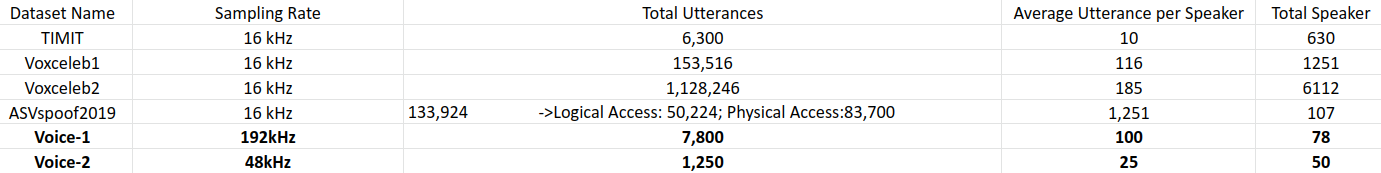
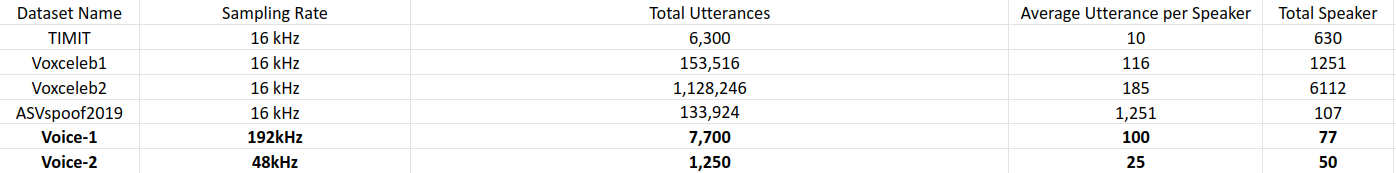
update

diff --git a/_layouts/default.html b/_layouts/default.html
@@ -50,24 +50,25 @@
 				</div> -->
 
 
-				<!-- <h1> Team </h1>
+				<h1> Team </h1>
 					<div class ="boxed" style="margin-top=3em;">
 						<p>
-							SurfingAttack was discovered by the following team of academic researchers:
+							SuperVoice was discovered by the following team of academic researchers:
 						</p>
 						<ul>
 					<li>
-						<strong><a href="http://cse.msu.edu/~qyan/">Qiben Yan</a></strong> at <a href="http://seit.egr.msu.edu/">SEIT Lab</a>, <a href="https://www.cse.msu.edu/">Michigan State University</a></li>
-							<li><a href=""><strong>Kehai Liu</strong></a> at <a href="http://english.cas.cn/">Chinese Academy of Sciences</a> </li>
-				      <li><a href="https://engineering.unl.edu/mme/faculty/qin-zhou/"><strong>Qin Zhou</strong></a> at <a href="https://www.unl.edu/">University of Nebraska-Lincoin</a></li>
+						<strf="http://www.cse.msu.edu/~lxiao/"><strong>Li Xiao</strong></a> at <a href="https://www.cse.msu.edu/">Michigan State University</a></li>ong>
 							<li><a href="https://hanqingguo.github.io"><strong>Hanqing Guo</strong></a> at <a href="http://seit.egr.msu.edu/">SEIT Lab</a>, <a href="https://www.cse.msu.edu/">Michigan State University</a></li>
-							<li><a href="https://engineering.wustl.edu/Profiles/Pages/Ning-Zhang.aspx"><strong>Ning Zhang</strong></a> at <a href="https://cse.wustl.edu/Pages/default.aspx">Washington University in St. Louis</a></li>
-
+							<li><a href="http://cse.msu.edu/~qyan/">Qiben Yan</a></strong> at <a href="http://seit.egr.msu.edu/">SEIT Lab</a>, <a href="https://www.cse.msu.edu/">Michigan State University</a></li>
+							<li><a href="https://nick-ivanov.com/"><strong>Nick Ivanov</strong></a> at <a href="http://seit.egr.msu.edu/">SEIT Lab</a>, <a href="https://www.cse.msu.edu/">Michigan State University</a></li>
+							<li><strong>Ying Zhu</strong> at <a href="https://www.cse.msu.edu/">Michigan State University</a></li>
+							<li><a href="http://www.cse.msu.edu/~lxiao/"><strong>Li Xiao</strong></a> at <a href="https://www.cse.msu.edu/">Michigan State University</a></li>
+							<li><a href="https://comartsci.msu.edu/our-people/eric-j-hunter"><strong>Eric J. Hunter</strong></a> at <a href="https://comartsci.msu.edu/departments/communicative-sciences-and-disorders">Communicative Sciences & Disorders</a>, <a href="https://www.cse.msu.edu/">Michigan State University</a></li>
 						</ul>
-<p class="text-center"><strong>Contact us at <a href="mailto:surfingattack@gmail.com">surfingattack@gmail.com</a></strong></p> -->
+<!-- <p class="text-center"><strong>Contact us at <a href="mailto:surfingattack@gmail.com">surfingattack@gmail.com</a></strong></p> -->
 <div class="Fb">
-	<div class="Gb"><h3>7800</h3><h4>Audio Samples</h4></div>
-		<div class="Gb"><h3>650 </h3><h4>minutes of audio</h4></div>
+	<div class="Gb"><h3>7700</h3><h4>Audio Samples</h4></div>
+		<div class="Gb"><h3>641 </h3><h4>minutes of audio</h4></div>
 		<div class="Gb"><h3>305</h3><h4>of sentences</h4></div>
 </div>
 
@@ -86,17 +87,9 @@
 
 					<ul>
 						<li class="question">
-							<!--<li>
-								<b> What's the difference between <a href="papers/p103-zhangAemb.pdf">dolphinAttack</a> and <a href="https://lightcommands.com/">lightcommands?</a></b>
-
-									<li class="answer">    <b><font color="red">Long distance attack</font> with NLOS situation compares to dolphinAttack</b> It achieves longer than 30ft distance with certain materials</li>
-									<li class="answer">    <b>None Line of sight attack.</b> It uses multiple solid media to attack victims.</li>
-									<li class="answer">    <b>Attack multiple phones simultanously.</b> It can attack more than one phones in a same time.</li>
-
-							</li>
-							<br>
-							<br>
-							<br>-->
+							<h2> Download</h2>
+							<p style="font-size:20px"><a href="https://michiganstate-my.sharepoint.com/:f:/r/personal/qyan_msu_edu/Documents/Data/HFVoiceData/HFVoiceDate2?csf=1&web=1&e=z5chdU">CHECK HERE</a><br>
+						<li class="question">
 							<h2> Why we collect this dataset?</h2>
 							<p class="answer">
 							No existing datasets support audio samples as 48kHz or 192kHz.
@@ -104,7 +97,7 @@
 							<img width = "1400px" src="pic/compare.png" alt="comparison" class="img-fluid" /><br>
 							<h2> Dataset Size</h2>
 							<p class="answer">
-									78 person, 7800 audio samples, 100 audios/person
+									77 person, 7700 audio samples, 100 audios/person
 							</p>
 					<h2>Dataset Design</h2>
 					<p class="answer">
@@ -171,122 +164,6 @@ We randomly pick 25 sentences and ask every participant read
 								<source src="./samples/7.wav" type="audio/wav">
 								Your browser does not support the <code>audio</code> element.
 							</audio></td>
-
-
-
-					<!-- <table>
-  				<tr>
-    			  <th>Manufacturer</th>
-    			  <th>Model</th>
-  				  <th>Os/Version</th>
-						<th>Best fc(kHz)</th>
-  				</tr>
-
-  				<tr>
-    				<td>Google</td>
-    				<td>Pixel</td>
-    				<td>Android 10</td>
-						<td>28.2</td>
-  				</tr>
-
-					<tr>
-    				<td>Google</td>
-    				<td>Pixel 2</td>
-    				<td>Android 10</td>
-						<td>27.0</td>
-  				</tr>
-
-					<tr>
-    				<td>Google</td>
-    				<td>Pixel 3</td>
-    				<td>Android 10</td>
-						<td>27.0</td>
-  				</tr>
-
-					<tr>
-    				<td>Moto</td>
-    				<td>G5</td>
-    				<td>Android 7.0</td>
-						<td>27.0</td>
-  				</tr>
-
-					<tr>
-    				<td>Moto</td>
-    				<td>Z4</td>
-    				<td>Android 9.0</td>
-						<td>28.2</td>
-  				</tr>
-
-					<tr>
-    				<td>Samsung</td>
-    				<td>Galaxy S7</td>
-    				<td>Android 7.0</td>
-						<td>25.8</td>
-  				</tr>
-
-					<tr>
-						<td>Samsung</td>
-						<td>Galaxy S9</td>
-						<td>Android 9.0</td>
-						<td>26.5</td>
-					</tr>
-
-					<tr>
-    				<td>Xiaomi</td>
-    				<td>Mi 5</td>
-    				<td>Android 8.0</td>
-						<td>28.3</td>
-  				</tr>
-
-					<tr>
-    				<td>Xiaomi</td>
-    				<td>Mi 8</td>
-    				<td>Android 9.0</td>
-						<td>25.6</td>
-  				</tr>
-
-					<tr>
-    				<td>Xiaomi</td>
-    				<td>Mi 8 Lite</td>
-    				<td>Android 9.0</td>
-						<td>25.5</td>
-  				</tr>
-
-					<tr>
-    				<td>Huawei</td>
-    				<td>Honor View 10</td>
-    				<td>Android 9.0</td>
-						<td>27.7</td>
-  				</tr>
-
-					<tr>
-    				<td>Apple</td>
-    				<td>iPhone 5</td>
-    				<td>iOS 10.0.03</td>
-						<td>26.2</td>
-  				</tr>
-
-					<tr>
-    				<td>Apple</td>
-    				<td>iPhone 5s</td>
-    				<td>iOS 12.1.2</td>
-						<td>26.2</td>
-  				</tr>
-
-					<tr>
-    				<td>Apple</td>
-    				<td>iPhone 6+</td>
-    				<td>iOS 11</td>
-						<td>26.0</td>
-  				</tr>
-
-					<tr>
-    				<td>Apple</td>
-    				<td>iPhone X</td>
-    				<td>iOS 12.4.1</td>
-						<td>26.0</td>
-  				</tr>
-</table><br> -->
 
 
 	</body>
